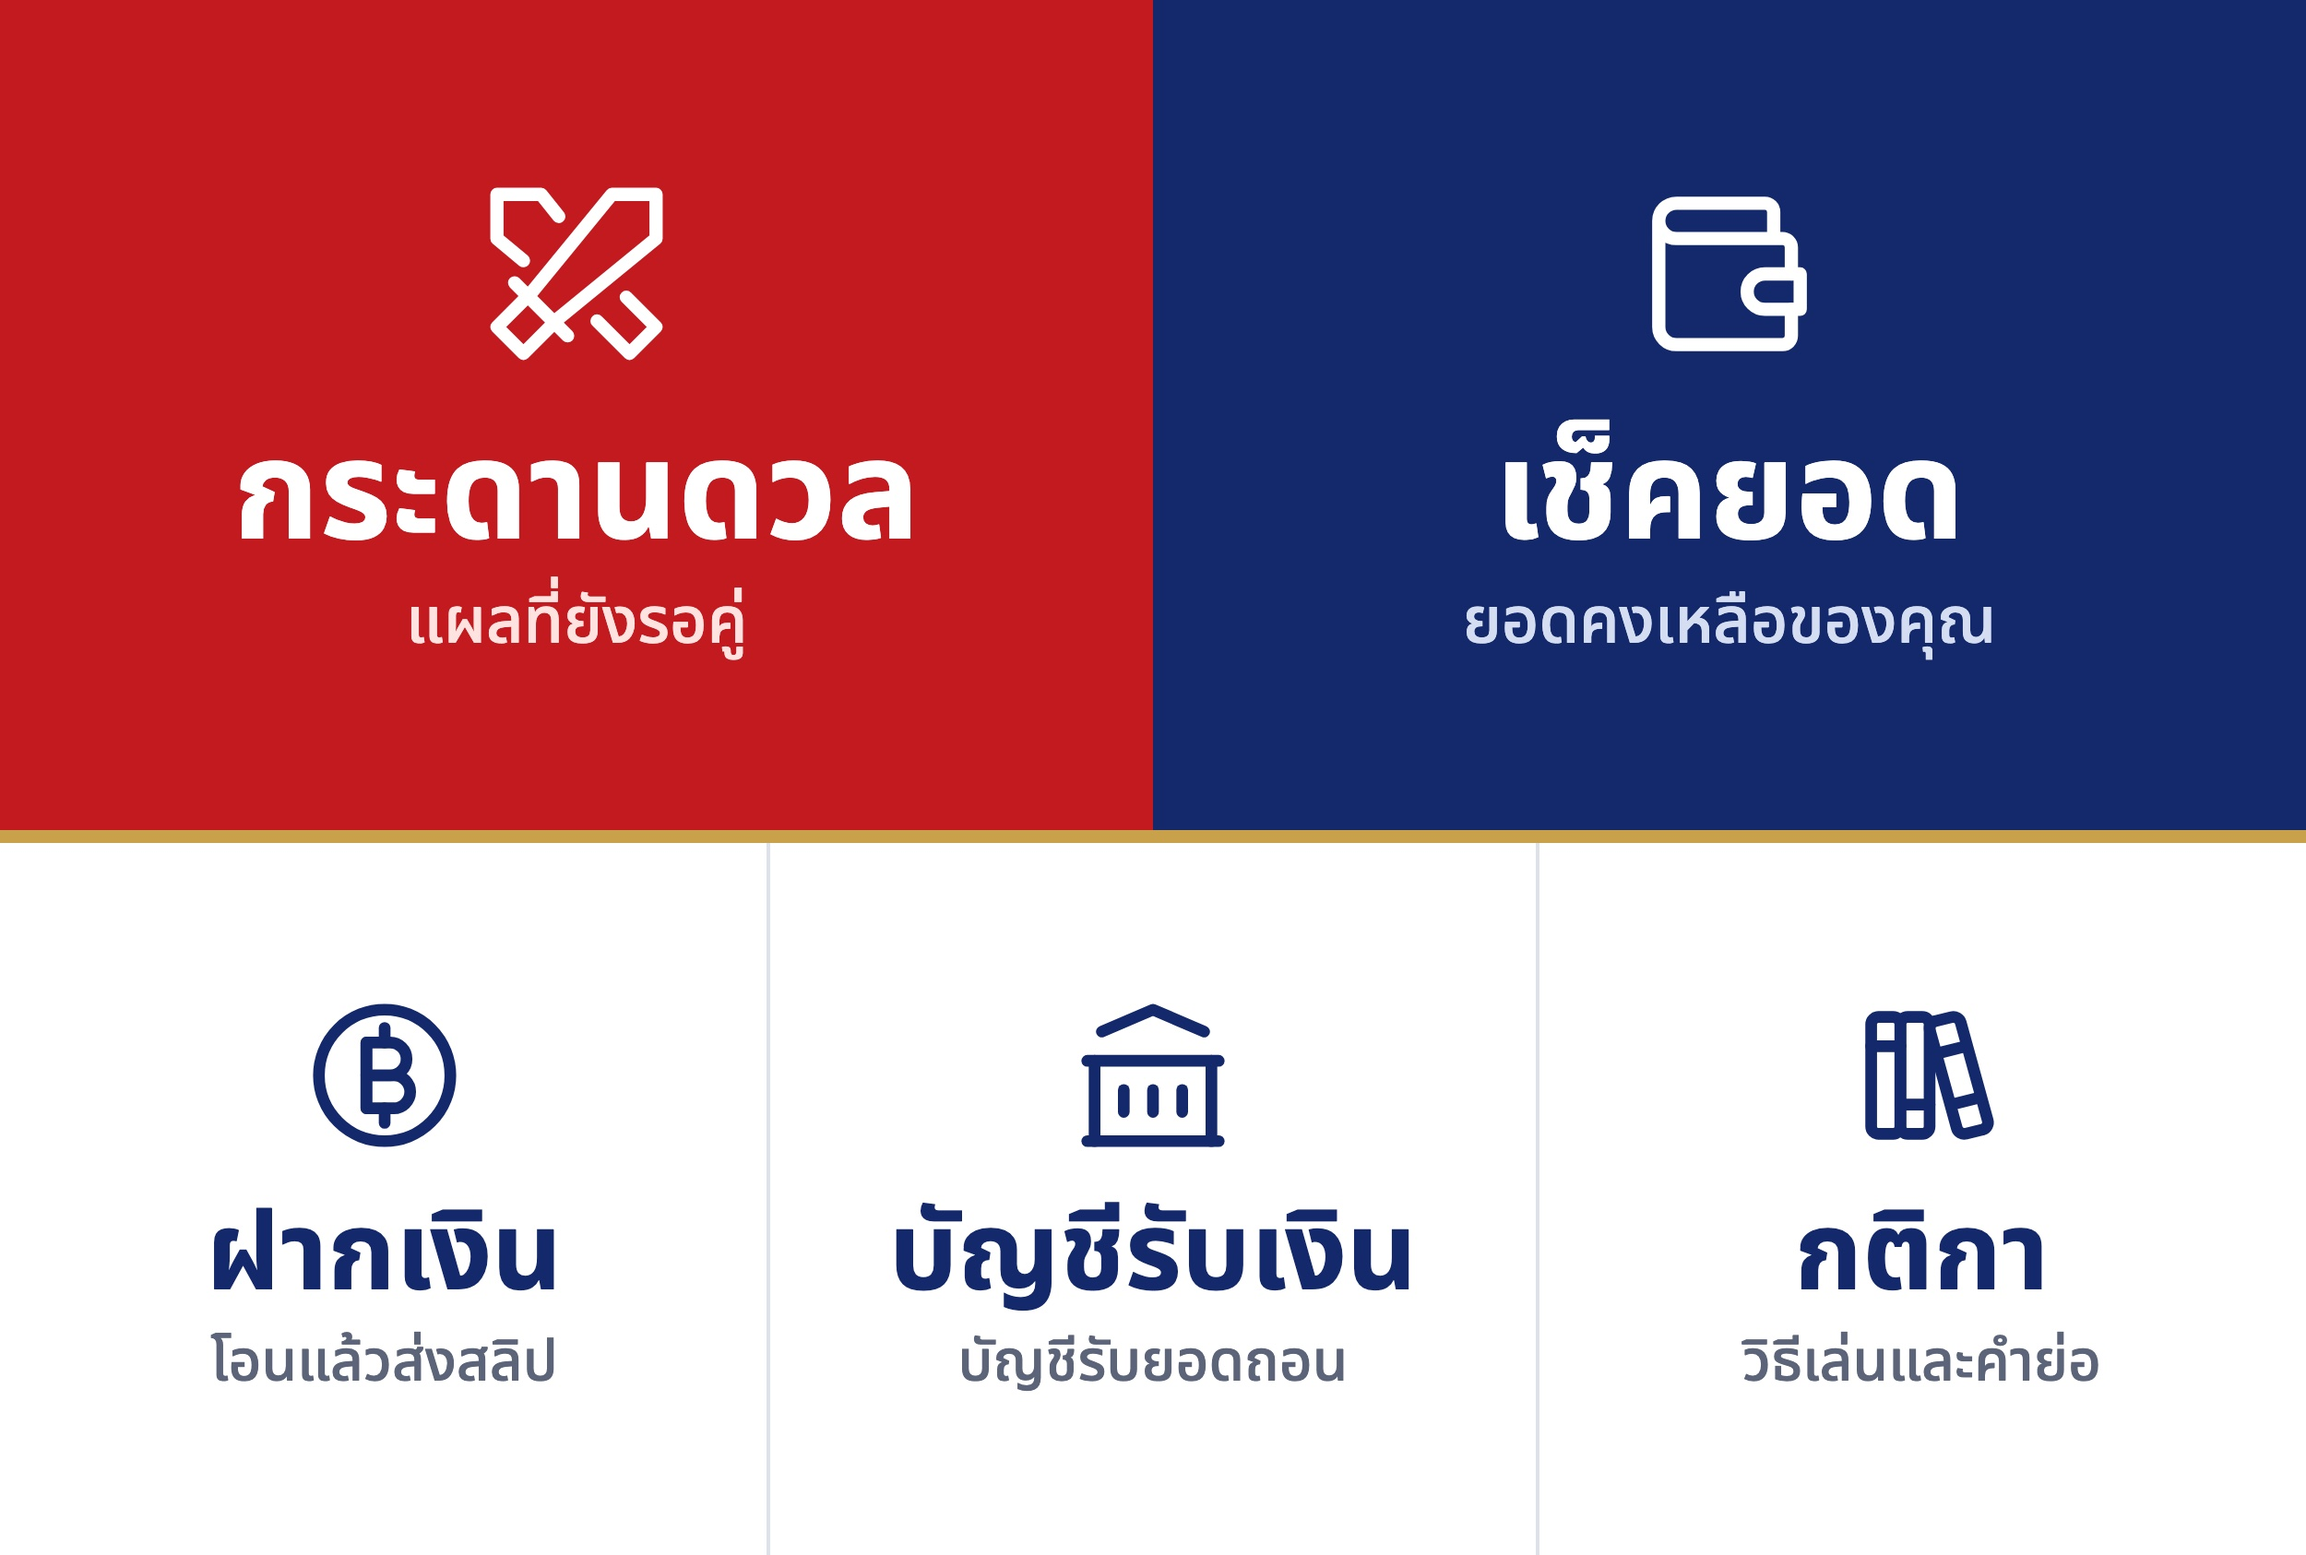
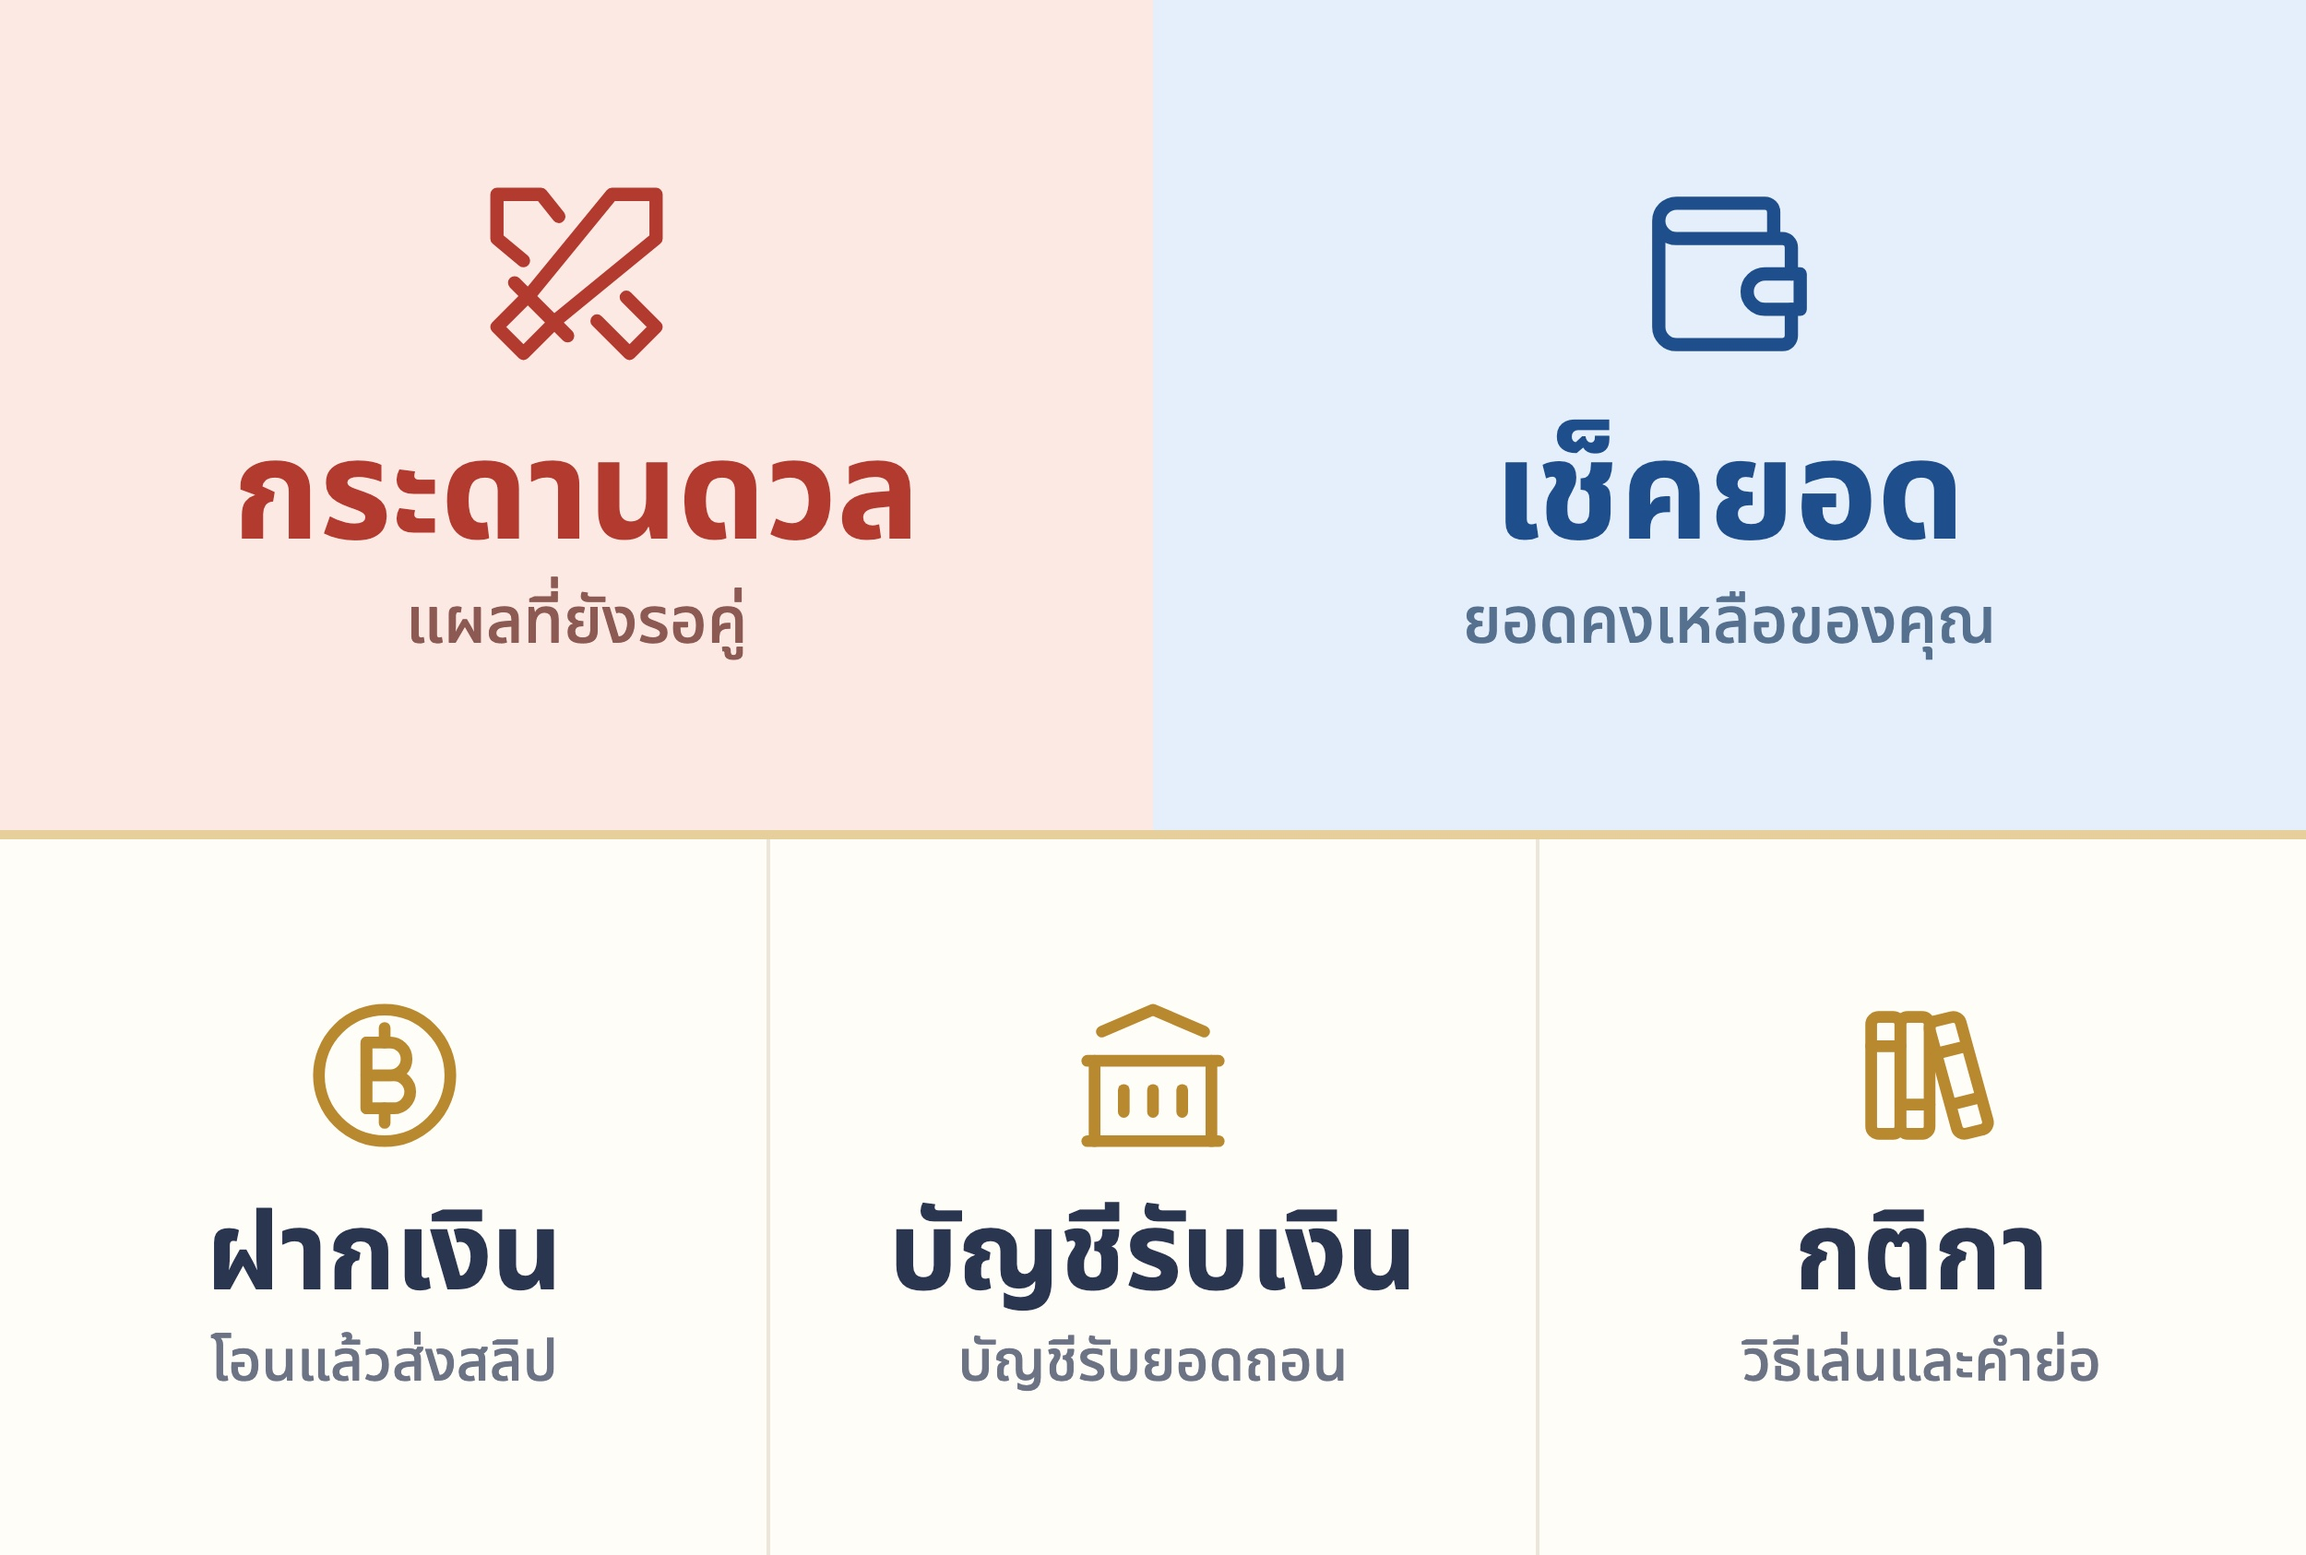
Rich menu: softer coral/sky palette, setup.sh delete option

diff --git a/cloudflare-worker/tools/rich-menu/richmenu.html b/cloudflare-worker/tools/rich-menu/richmenu.html
@@ -3,7 +3,7 @@
 <style>
   @font-face { font-family: 'NotoThai'; src: local('Noto Sans Thai'); }
   html, body { margin: 0; padding: 0; }
-  body { width: 2500px; height: 1686px; position: relative; overflow: hidden; background: #DCE1EA;
+  body { width: 2500px; height: 1686px; position: relative; overflow: hidden; background: #ECE6DA;
          font-family: 'Noto Sans Thai', 'Sarabun', sans-serif; }
   .tile { position: absolute; box-sizing: border-box; display: flex; flex-direction: column;
           align-items: center; justify-content: center; }
@@ -12,19 +12,19 @@
   .big .label { font-size: 150px; margin-top: 40px; }
   .big .sub { font-size: 70px; }
   /* hairlines between the white tiles, a gold rule under the top row */
-  .rule { position: absolute; left: 0; width: 2500px; top: 900px; height: 14px; background: #C9A14A; }
-  .vline { position: absolute; top: 914px; width: 4px; height: 772px; background: #DCE1EA; }
+  .rule { position: absolute; left: 0; width: 2500px; top: 900px; height: 10px; background: #E6CF9A; }
+  .vline { position: absolute; top: 910px; width: 4px; height: 776px; background: #ECE6DA; }
 </style></head>
 <body>
 
-  <div class="tile big" style="left:0px;top:0px;width:1250px;height:900px;background:#C21A1F">
+  <div class="tile big" style="left:0px;top:0px;width:1250px;height:900px;background:#FDE9E4">
     <svg
   xmlns="http://www.w3.org/2000/svg"
   width="230"
   height="230"
   viewBox="0 0 24 24"
   fill="none"
-  stroke="#FFFFFF"
+  stroke="#B23A2E"
   stroke-width="1.5"
   stroke-linecap="round"
   stroke-linejoin="round"
@@ -36,17 +36,17 @@
   <path d="M14.32 17.32l3.68 3.68l3 -3l-3.365 -3.365" />
   <path d="M10 5.5l-2 -2.5h-5v5l3 2.5" />
 </svg>
-    <div class="label" style="color:#FFFFFF">กระดานดวล</div>
-    <div class="sub" style="color:#FFE3E1">แผลที่ยังรอคู่</div>
+    <div class="label" style="color:#B23A2E">กระดานดวล</div>
+    <div class="sub" style="color:#8C5A52">แผลที่ยังรอคู่</div>
   </div>
-  <div class="tile big" style="left:1250px;top:0px;width:1250px;height:900px;background:#13296B">
+  <div class="tile big" style="left:1250px;top:0px;width:1250px;height:900px;background:#E4EFFB">
     <svg
   xmlns="http://www.w3.org/2000/svg"
   width="230"
   height="230"
   viewBox="0 0 24 24"
   fill="none"
-  stroke="#FFFFFF"
+  stroke="#1F4E8C"
   stroke-width="1.5"
   stroke-linecap="round"
   stroke-linejoin="round"
@@ -56,11 +56,11 @@
   <path d="M17 8v-3a1 1 0 0 0 -1 -1h-10a2 2 0 0 0 0 4h12a1 1 0 0 1 1 1v3m0 4v3a1 1 0 0 1 -1 1h-12a2 2 0 0 1 -2 -2v-12" />
   <path d="M20 12v4h-4a2 2 0 0 1 0 -4h4" />
 </svg>
-    <div class="label" style="color:#FFFFFF">เช็คยอด</div>
-    <div class="sub" style="color:#D5DDF2">ยอดคงเหลือของคุณ</div>
+    <div class="label" style="color:#1F4E8C">เช็คยอด</div>
+    <div class="sub" style="color:#56708F">ยอดคงเหลือของคุณ</div>
   </div>
-  <div class="tile" style="left:0px;top:900px;width:833px;height:786px;background:#FFFFFF">
-    <svg xmlns="http://www.w3.org/2000/svg" width="190" height="190" viewBox="0 0 24 24" fill="none" stroke="#13296B" stroke-width="1.6" stroke-linecap="round" stroke-linejoin="round">
+  <div class="tile" style="left:0px;top:900px;width:833px;height:786px;background:#FFFDF8">
+    <svg xmlns="http://www.w3.org/2000/svg" width="190" height="190" viewBox="0 0 24 24" fill="none" stroke="#B8892E" stroke-width="1.6" stroke-linecap="round" stroke-linejoin="round">
   <path d="M3 12a9 9 0 1 0 18 0a9 9 0 1 0 -18 0" />
   <path d="M9.5 7.5h3.25a2 2 0 0 1 0 4.5h-3.25z" />
   <path d="M9.5 12h3.75a2.25 2.25 0 0 1 0 4.5h-3.75z" />
@@ -69,17 +69,17 @@
   <path d="M12 16.5v2" />
 </svg>
 
-    <div class="label" style="color:#13296B">ฝากเงิน</div>
-    <div class="sub" style="color:#5B6478">โอนแล้วส่งสลิป</div>
+    <div class="label" style="color:#2A3550">ฝากเงิน</div>
+    <div class="sub" style="color:#6B7385">โอนแล้วส่งสลิป</div>
   </div>
-  <div class="tile" style="left:833px;top:900px;width:834px;height:786px;background:#FFFFFF">
+  <div class="tile" style="left:833px;top:900px;width:834px;height:786px;background:#FFFDF8">
     <svg
   xmlns="http://www.w3.org/2000/svg"
   width="190"
   height="190"
   viewBox="0 0 24 24"
   fill="none"
-  stroke="#13296B"
+  stroke="#B8892E"
   stroke-width="1.6"
   stroke-linecap="round"
   stroke-linejoin="round"
@@ -95,17 +95,17 @@
   <path d="M12 14l0 3" />
   <path d="M16 14l0 3" />
 </svg>
-    <div class="label" style="color:#13296B">บัญชีรับเงิน</div>
-    <div class="sub" style="color:#5B6478">บัญชีรับยอดถอน</div>
+    <div class="label" style="color:#2A3550">บัญชีรับเงิน</div>
+    <div class="sub" style="color:#6B7385">บัญชีรับยอดถอน</div>
   </div>
-  <div class="tile" style="left:1667px;top:900px;width:833px;height:786px;background:#FFFFFF">
+  <div class="tile" style="left:1667px;top:900px;width:833px;height:786px;background:#FFFDF8">
     <svg
   xmlns="http://www.w3.org/2000/svg"
   width="190"
   height="190"
   viewBox="0 0 24 24"
   fill="none"
-  stroke="#13296B"
+  stroke="#B8892E"
   stroke-width="1.6"
   stroke-linecap="round"
   stroke-linejoin="round"
@@ -120,8 +120,8 @@
   <path d="M14 9l4 -1" />
   <path d="M16 16l3.923 -.98" />
 </svg>
-    <div class="label" style="color:#13296B">กติกา</div>
-    <div class="sub" style="color:#5B6478">วิธีเล่นและคำย่อ</div>
+    <div class="label" style="color:#2A3550">กติกา</div>
+    <div class="sub" style="color:#6B7385">วิธีเล่นและคำย่อ</div>
   </div>
   <div class="rule"></div>
   <div class="vline" style="left:831px"></div>
